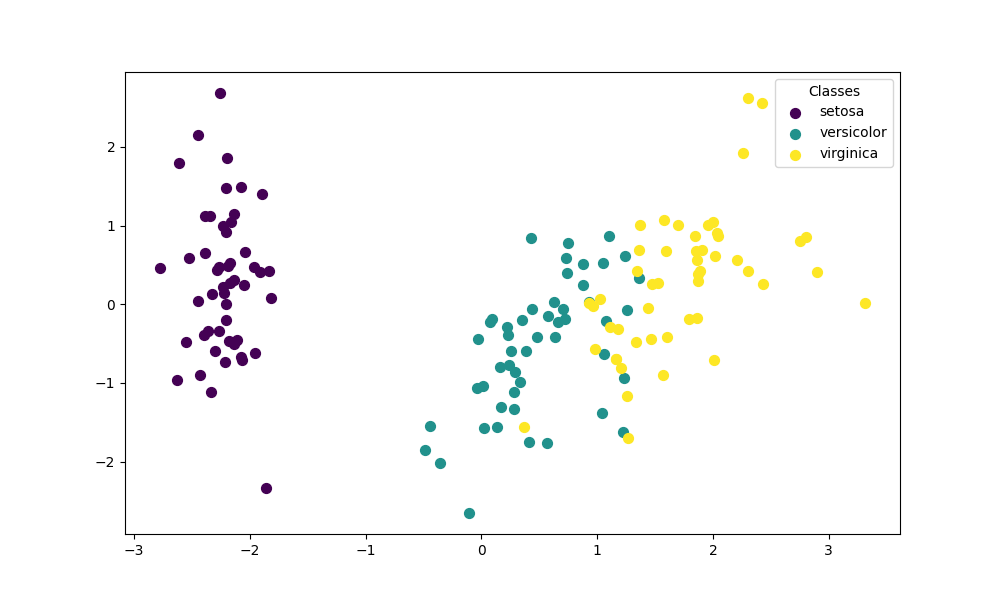
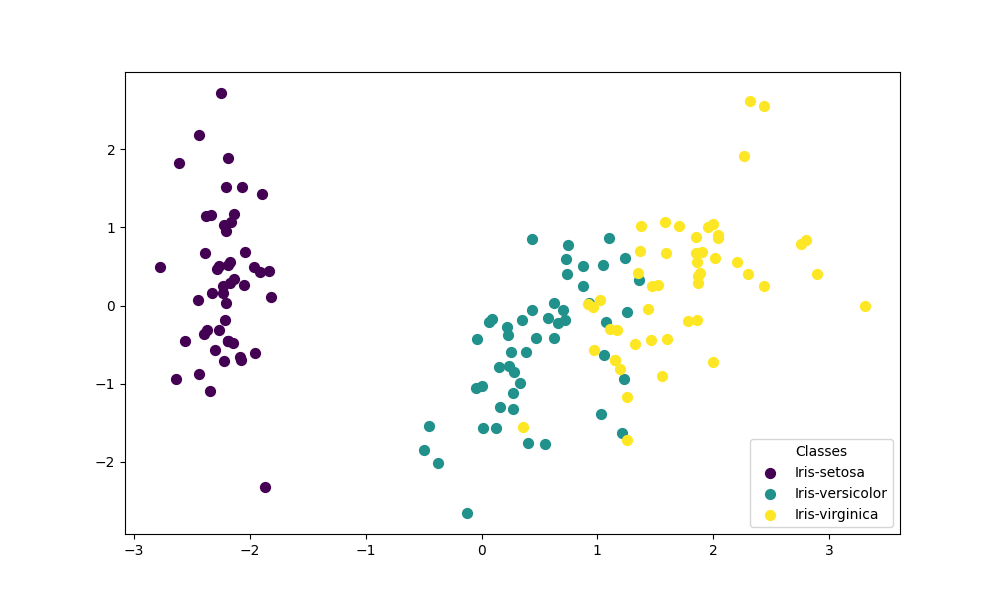
DA-3-38

diff --git a/DA-3-38/tsne_pca_visualization.py b/DA-3-38/tsne_pca_visualization.py
@@ -1,12 +1,12 @@
+import pandas as pd
 import numpy as np
 import matplotlib.pyplot as plt
 import os
-from sklearn.datasets import load_iris
 from sklearn.manifold import TSNE
 from sklearn.decomposition import PCA
 from sklearn.preprocessing import StandardScaler
 
-def analyze_dimensionality_reduction():
+def analyze(path_to_dataset):
     """
     Apply t-SNE and PCA to reduce the Iris dataset to 2D and visualize the results.
 
@@ -18,11 +18,17 @@ def analyze_dimensionality_reduction():
             - target_names: List of target class names.
     """
     try:
+        if not os.path.exists(path_to_dataset):
+            raise FileNotFoundError(f"The file {path_to_dataset} does not exist.")
+        
         # Load Iris dataset
-        iris = load_iris()
-        X = iris.data
-        y = iris.target
-        target_names = iris.target_names
+        dataset = pd.read_csv(path_to_dataset)
+        X = dataset.drop(columns="Species")
+        y = dataset["Species"]
+        target_names = list(dataset["Species"].unique())
+
+        # Convert string labels to numerical indices
+        y_numeric = pd.Categorical(y, categories=target_names).codes
 
         # Standardize the data
         scaler = StandardScaler()
@@ -39,7 +45,7 @@ def analyze_dimensionality_reduction():
         results = {
             'tsne_data': tsne_data,
             'pca_data': pca_data,
-            'target': y,
+            'target': y_numeric,
             'target_names': target_names,
         }
 
@@ -49,7 +55,7 @@ def analyze_dimensionality_reduction():
         print(f"Error: {str(e)}")
         return None
 
-def visualize_dimensionality_reduction(tsne_data, pca_data, target, target_names, output_tsne, output_pca):
+def visualize(tsne_data, pca_data, target, target_names, output_tsne, output_pca):
     """
     Create and save scatter plots for t-SNE and PCA 2D projections, colored by target variable.
 
@@ -93,11 +99,13 @@ if __name__ == "__main__":
     output_tsne = 'tsne.png'
     output_pca = 'pca.png'
 
-    results = analyze_dimensionality_reduction()
+    script_dir = os.path.dirname(__file__)
+    path_to_dataset = os.path.join(script_dir, "Iris.csv")
+    results = analyze(path_to_dataset)
 
     if results:
         # Visualize the results
-        visualize_dimensionality_reduction(
+        visualize(
             results['tsne_data'],
             results['pca_data'],
             results['target'],

diff --git a/DA-3-38/README.md b/DA-3-38/README.md
@@ -21,4 +21,5 @@ pip install -r requirements.txt
 python analysis_corr.py
 ```
 
-Чтобы использовать свои данные, измените path_to_dataset в  if \_\_name__ == "_\_main__": или передайте свой путь в функцию analyze_collinearity
+Чтобы использовать свои данные, измените path_to_dataset в  if \_\_name__ == "_\_main__": или передайте свой путь в функцию analyze
+
